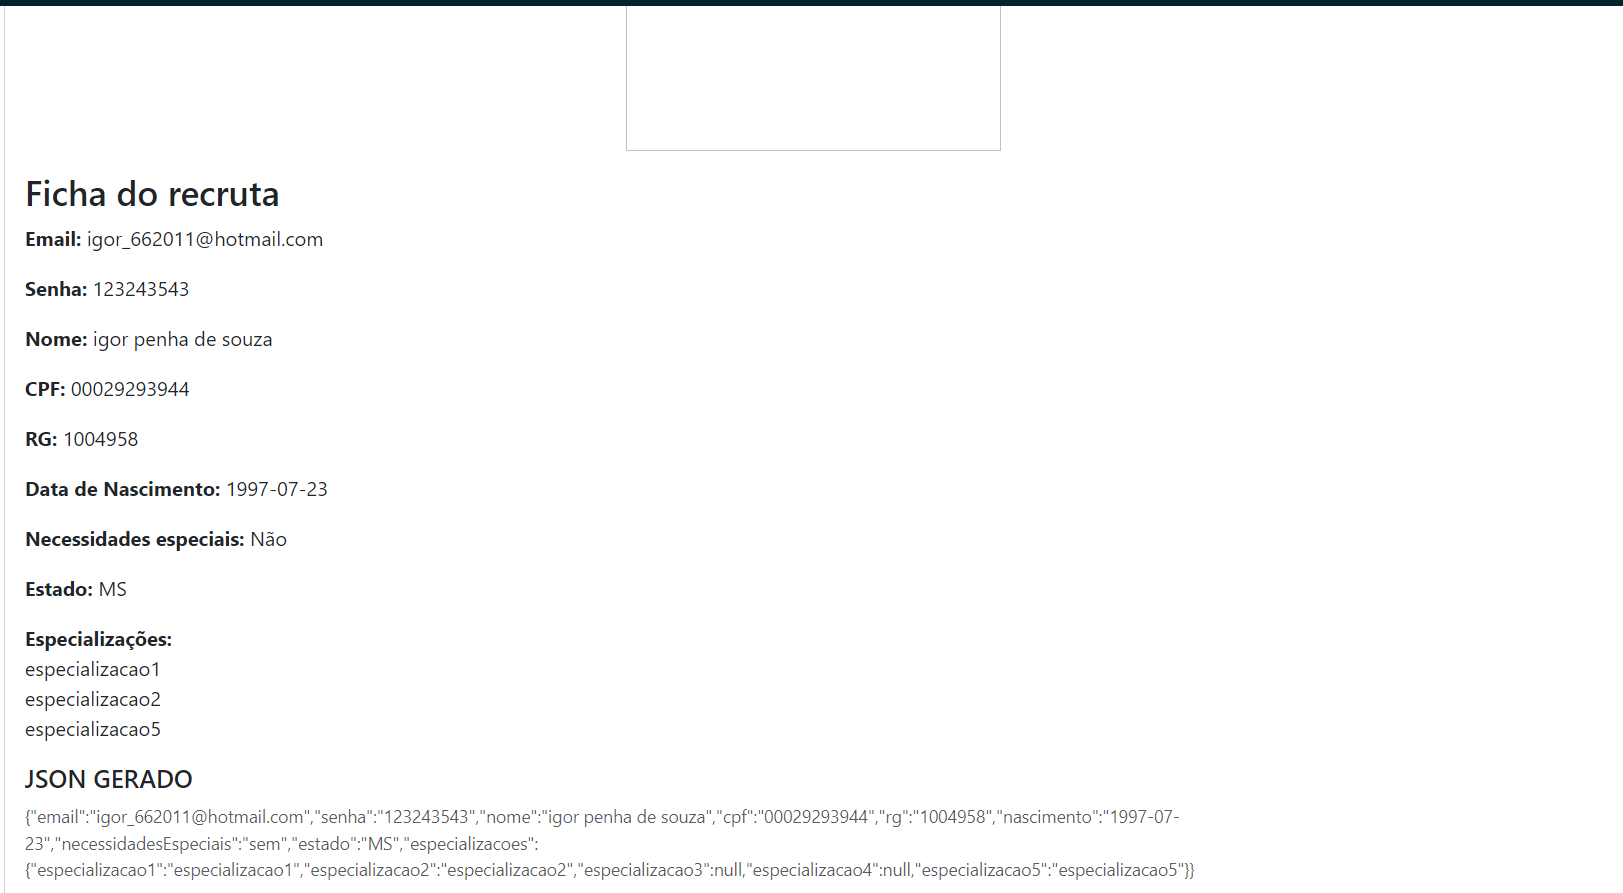
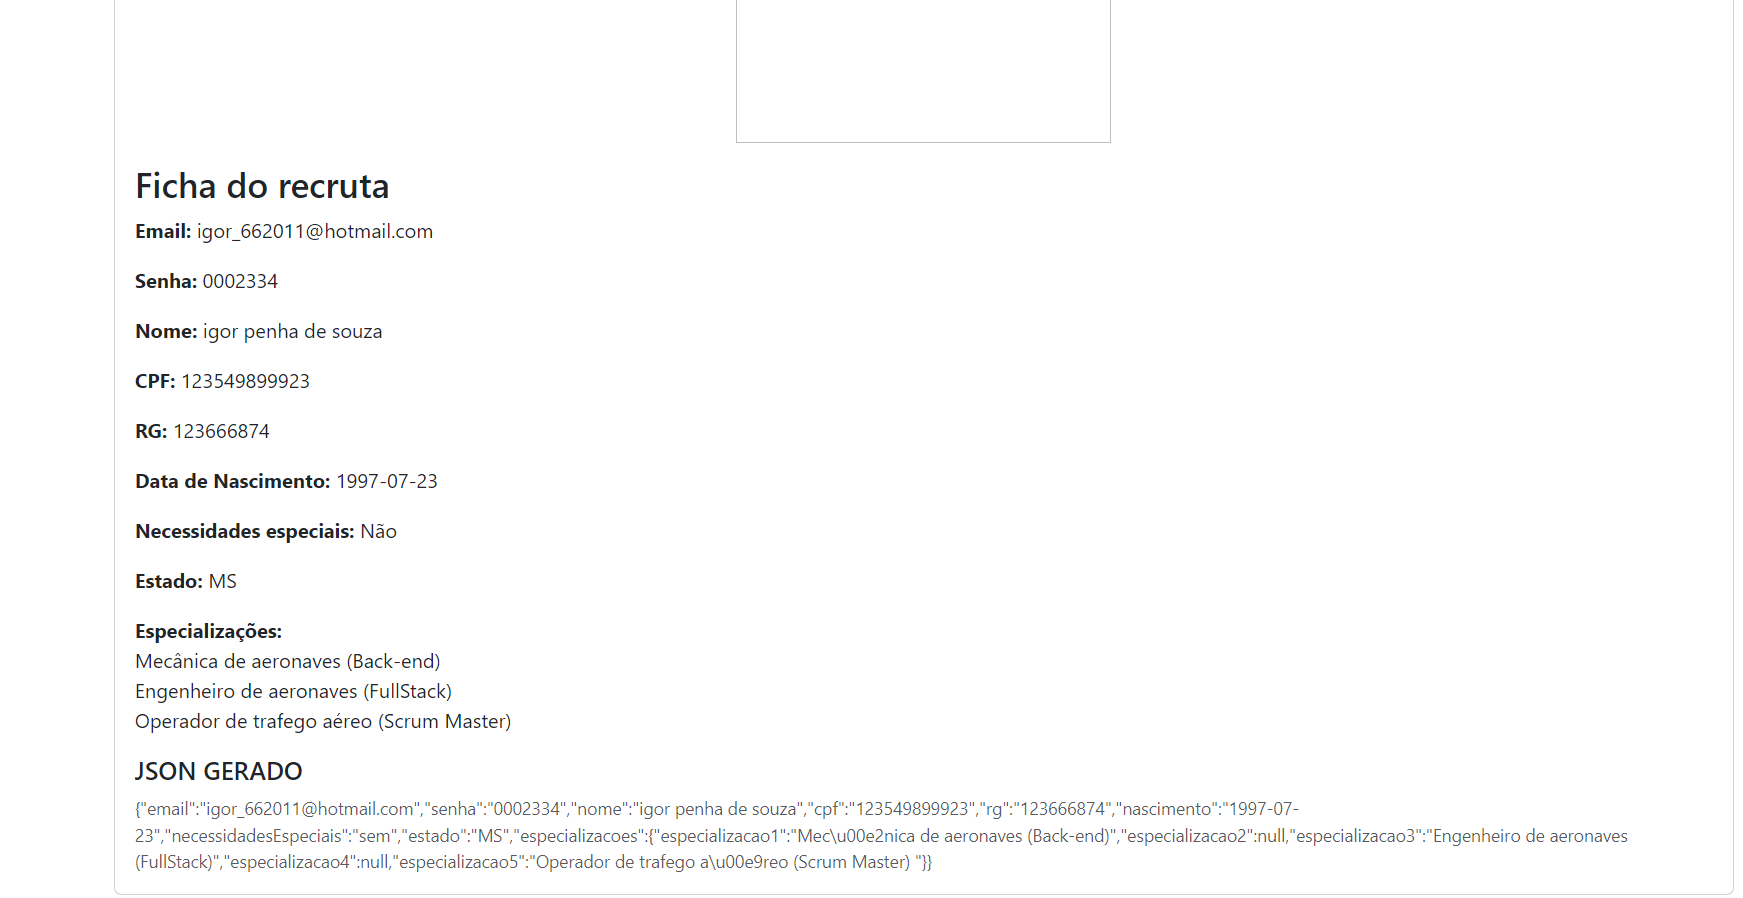
New 09/11

diff --git a/Atividadeform.html b/Atividadeform.html
@@ -111,23 +111,23 @@
     <fieldset>
                 <legend>Especialização desejada</legend>
         <label>
-            <input type="checkbox" name="especializacao1" value="especializacao1">Mecânica de aeronaves (Back-end)
+            <input type="checkbox" name="especializacao1" value="Mecânica de aeronaves (Back-end)">Mecânica de aeronaves (Back-end)
         </label>
                         <br><br>
         <label>
-            <input type="checkbox" name="especializacao2" value="especializacao2">Montagem de aeronaves (Front-end)
+            <input type="checkbox" name="especializacao2" value="ontagem de aeronaves (Front-end)">Montagem de aeronaves (Front-end)
         </label>
                         <br><br>
         <label>
-           <input type="checkbox" name="especializacao3" value="especializacao3">Engenheiro de aeronaves (FullStack) 
+           <input type="checkbox" name="especializacao3" value="Engenheiro de aeronaves (FullStack)">Engenheiro de aeronaves (FullStack) 
         </label>
                         <br><br>
         <label>
-            <input type="checkbox" name="especializacao4" value="especializacao4">Piloto (Tester) 
+            <input type="checkbox" name="especializacao4" value="Piloto (Tester) ">Piloto (Tester) 
         </label>
                         <br><br>
         <label>
-            <input type="checkbox" name="especializacao5" value="especializacao5">Operador de trafego aéreo (Scrum Master) 
+            <input type="checkbox" name="especializacao5" value="Operador de trafego aéreo (Scrum Master) ">Operador de trafego aéreo (Scrum Master) 
         </label>
                         <br><br>
     </fieldset>
